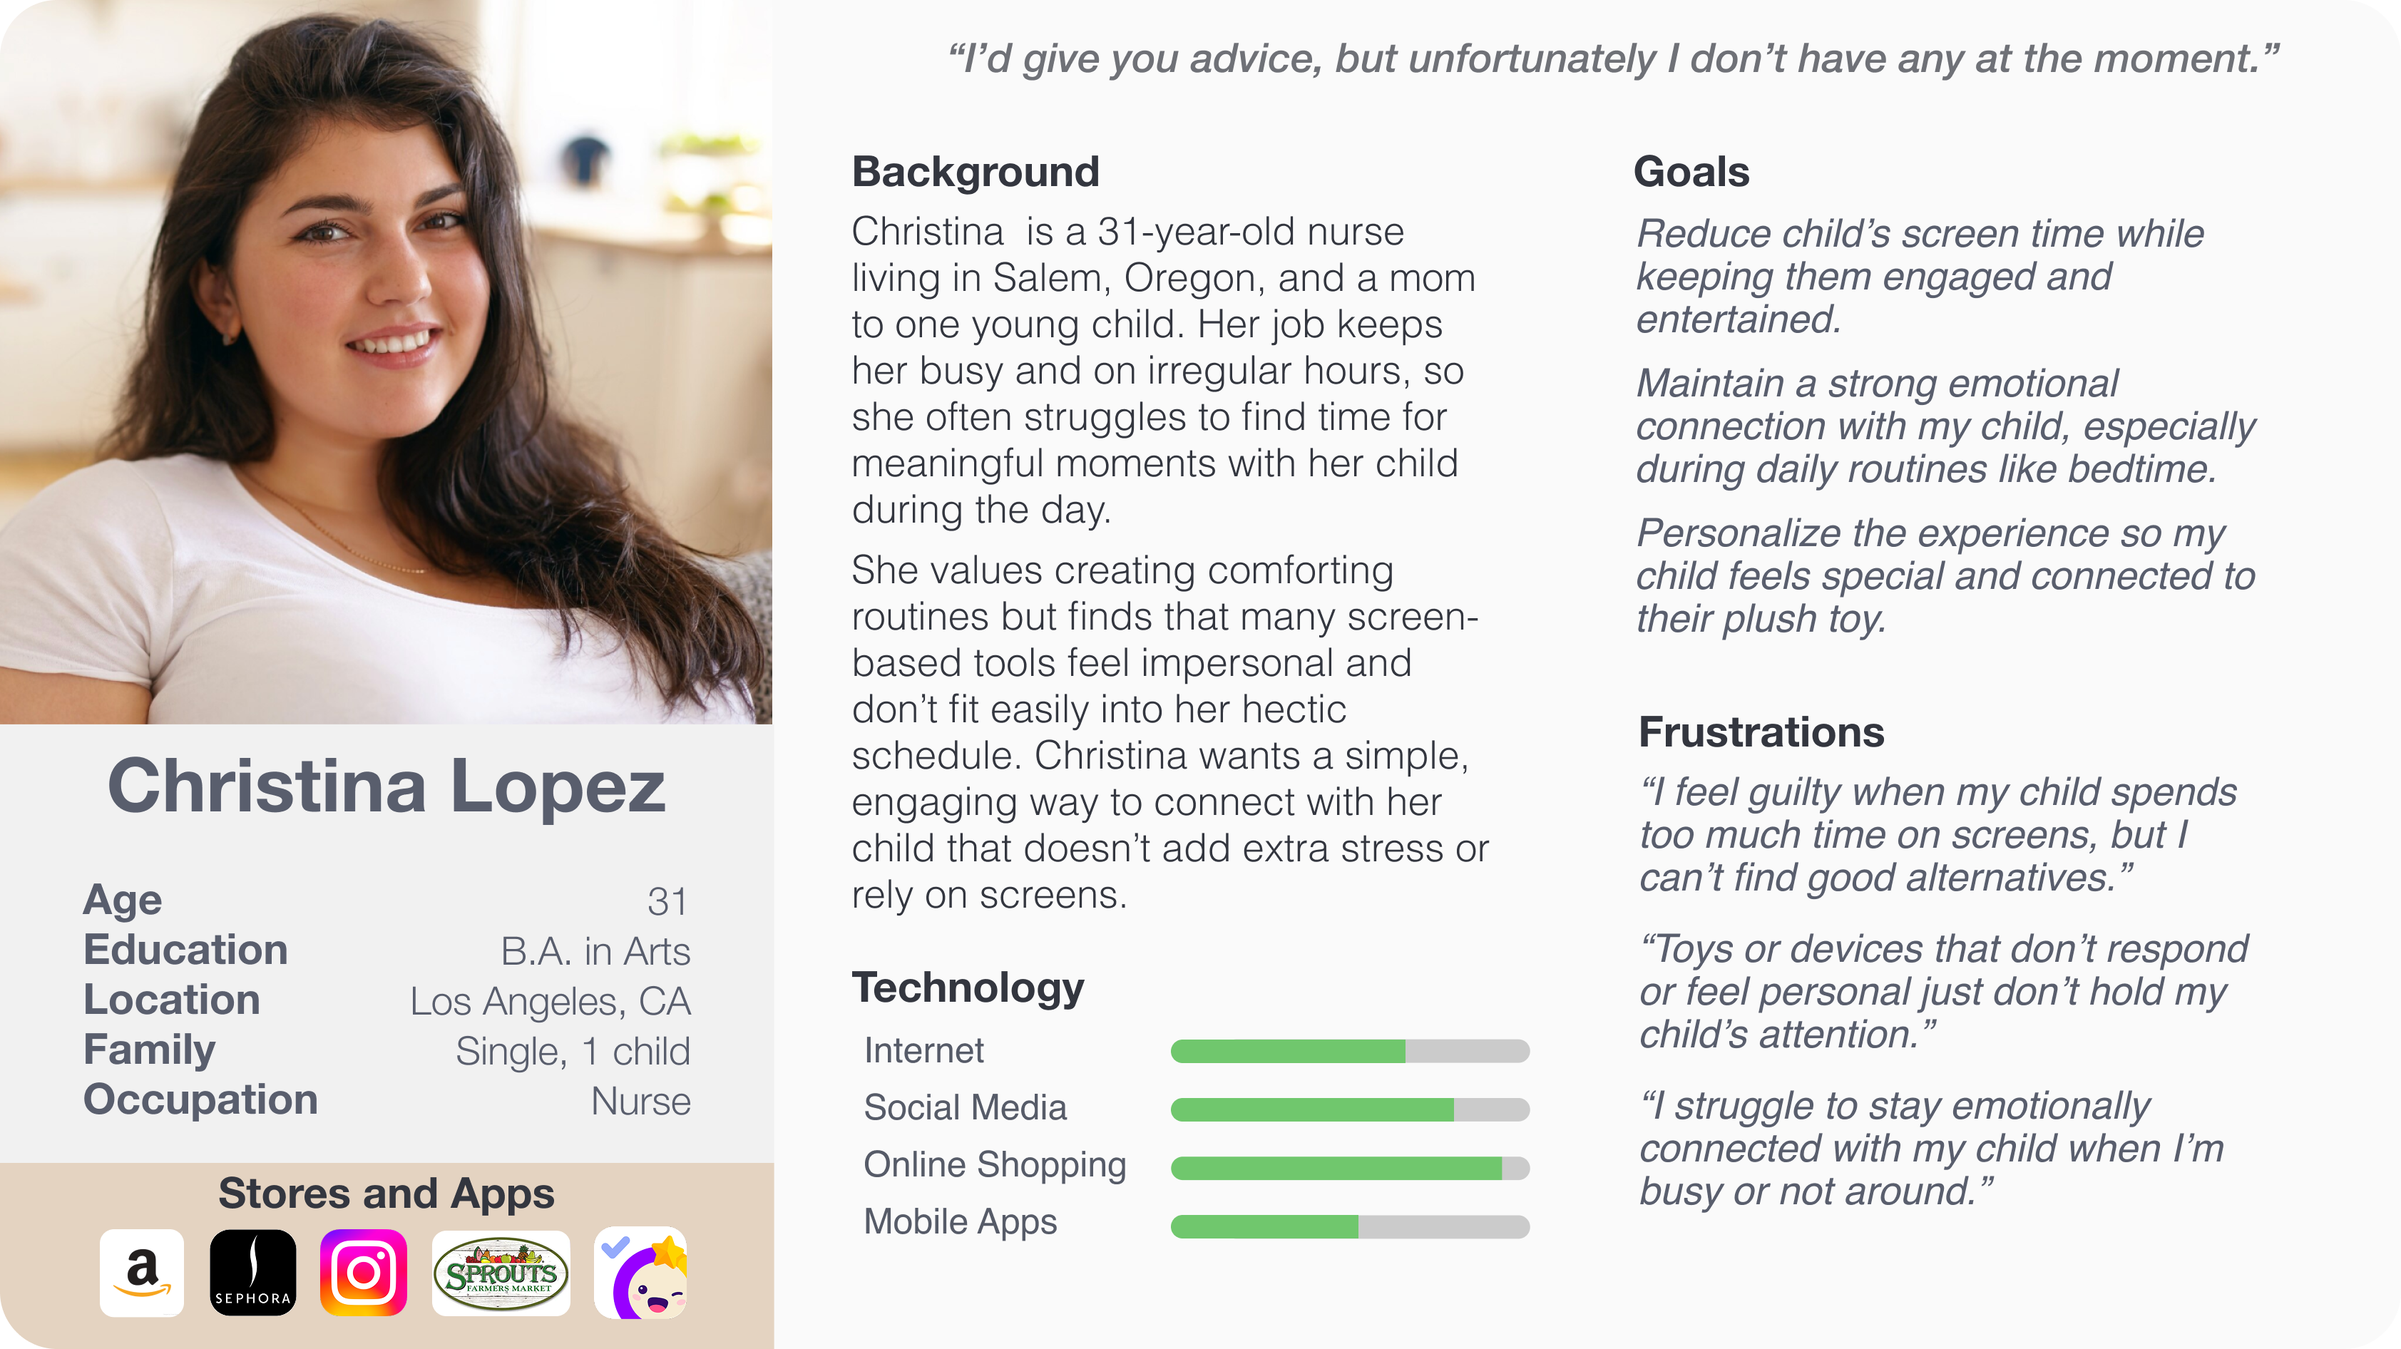
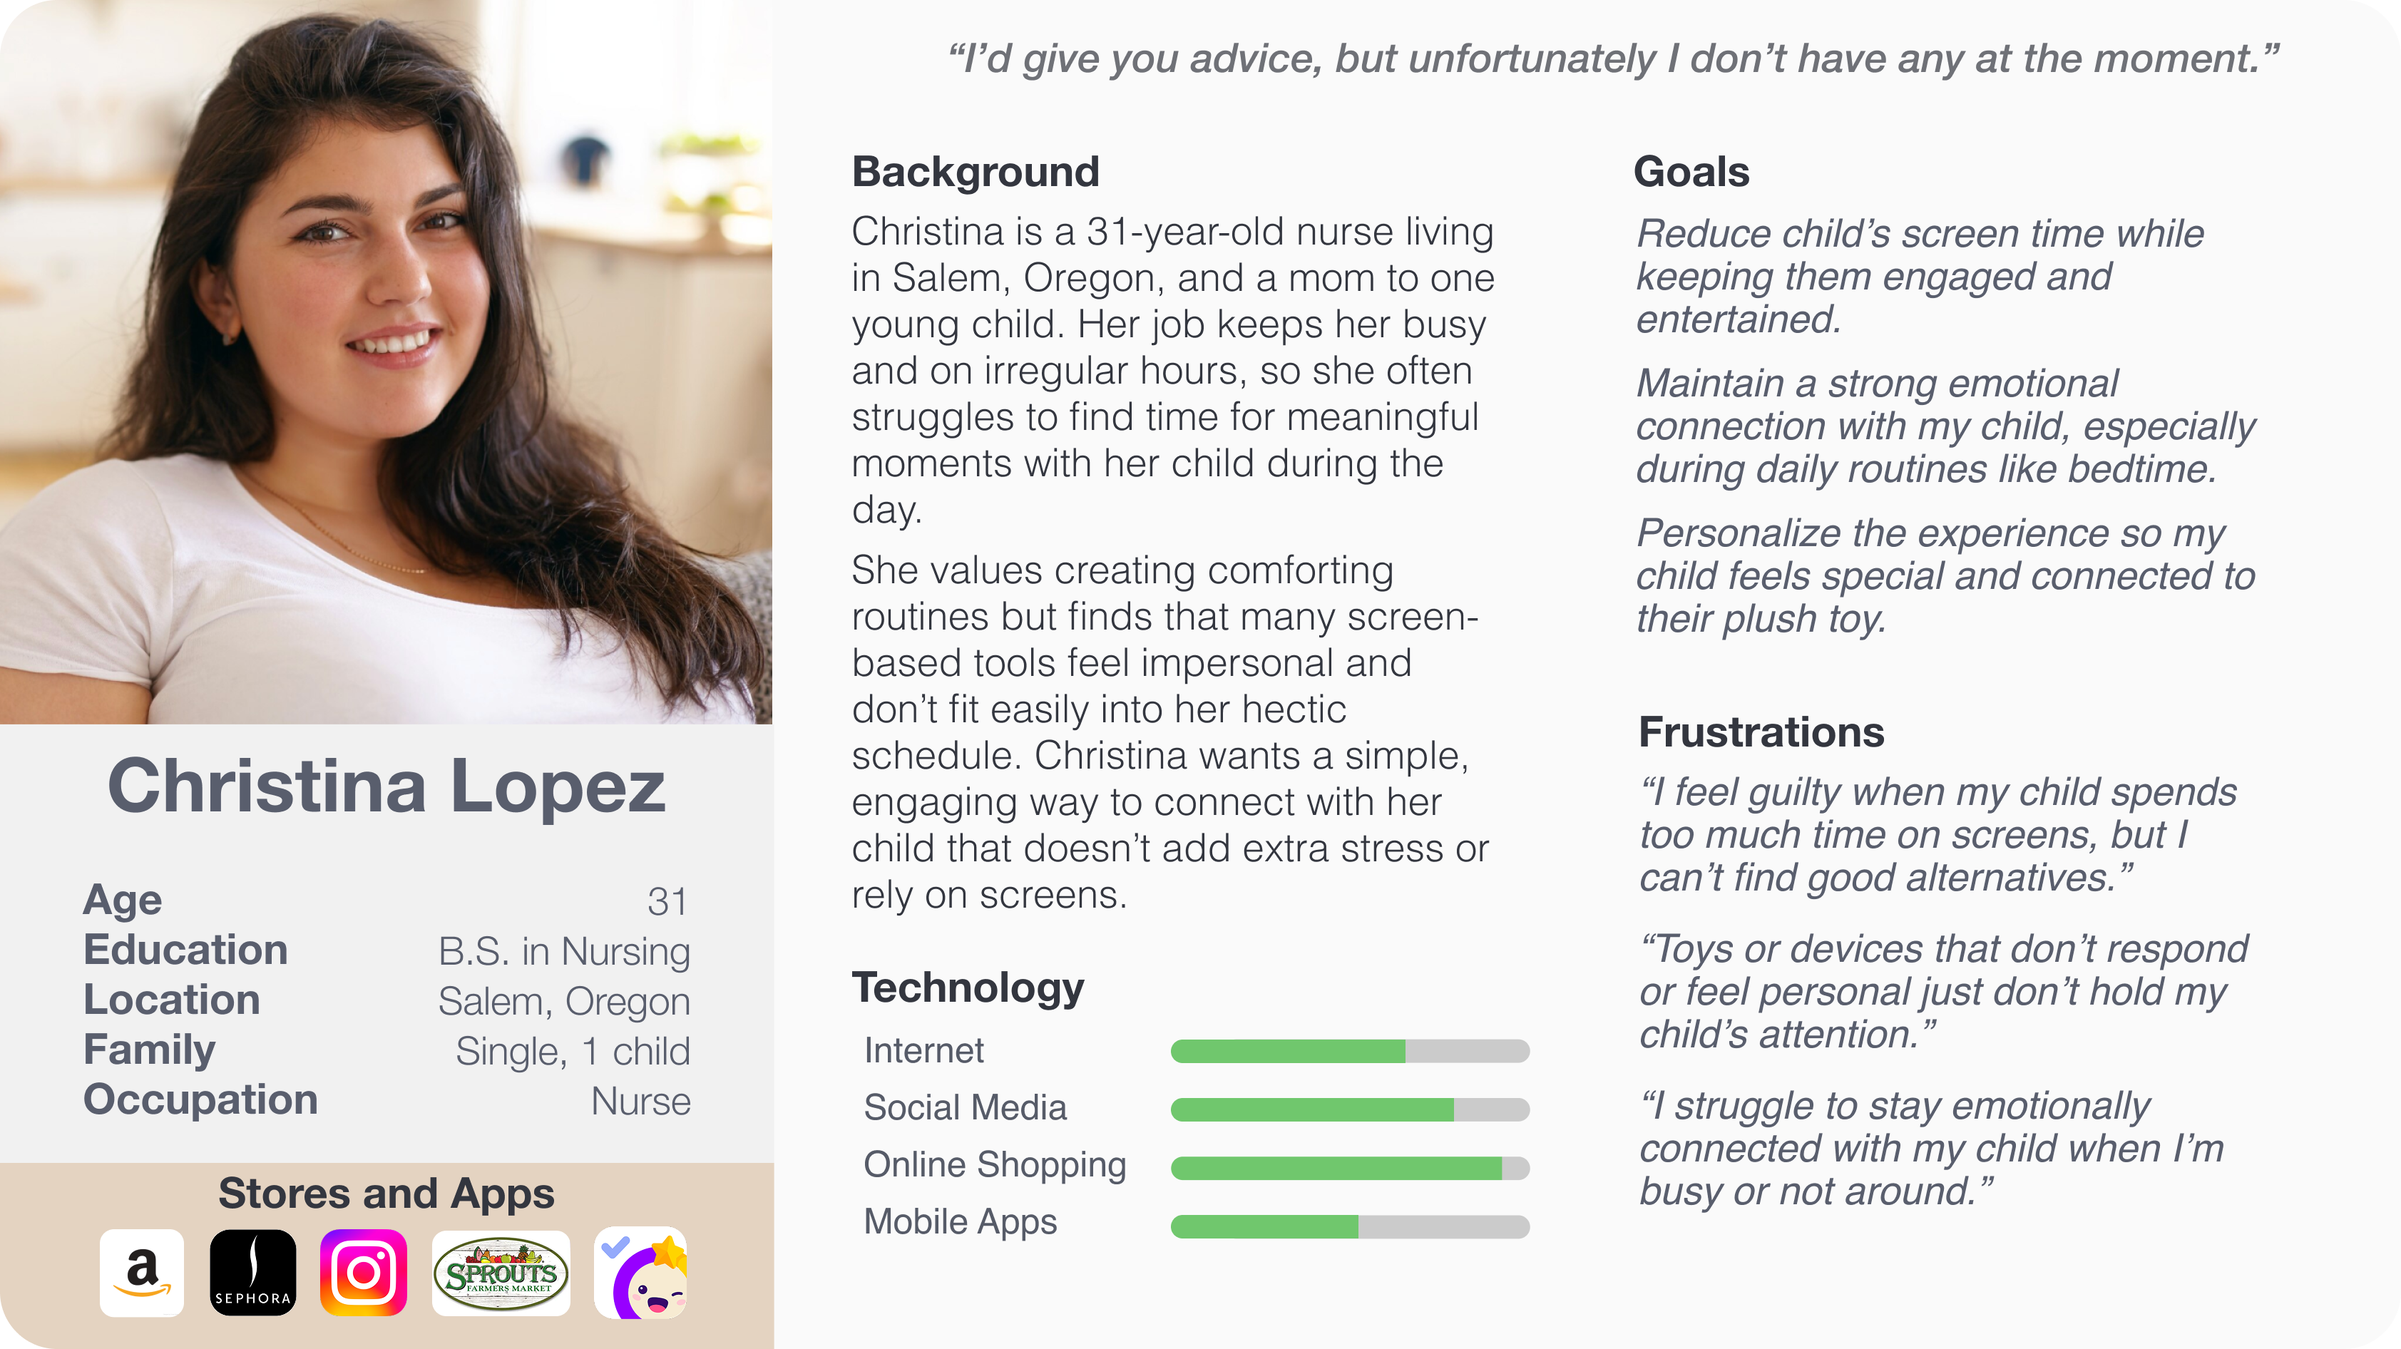
shorten some paragraphs

Changed region(s): [[0.343, 0.1559, 0.6237, 0.4054], [0.1871, 0.686, 0.2807, 0.7484]]

diff --git a/es/proyectos/mm.html b/es/proyectos/mm.html
@@ -86,7 +86,7 @@
                         <h5>Antes de realizar la investigación</h5>
                         <p>Supuse que los padres querían que sus hijos tuvieran una forma de mantenerse conectados con ellos sin necesidad de pantallas y que les ayudara a establecer rutinas con más facilidad.</p>
                         <h5>A través de entrevistas con usuarios y observación</h5>
-                        <p>Confirmé que muchas personas tenían dificultades para equilibrar sus agendas ocupadas con momentos de conexión de calidad. Una madre de un niño de cinco años compartió lo difícil que le resultaba mantener una rutina constante a la hora de dormir cuando tenía turnos de trabajo nocturnos. Ella deseaba una presencia reconfortante y familiar en la que su hijo pudiera confiar cuando ella no estuviera.</p>
+                        <p>Confirmé que muchas personas tenían dificultades para equilibrar sus agendas ocupadas con momentos de conexión de calidad. La madre de un niño de cinco años compartió lo difícil que le resultaba mantener una rutina constante a la hora de dormir cuando tenía turnos de trabajo nocturnos. Ella deseaba una presencia reconfortante y familiar en la que su hijo pudiera confiar cuando ella no estuviera.</p>
                         <h5>Al hablar con padres e hijos</h5>
                         <p>Descubrí que la conexión emocional era tan importante como la estructura. Los padres valoraban las herramientas que ayudaban con las rutinas, y los niños respondían mejor a interacciones que se sintieran personales y tuvieran un toque de magia.</p>
                     </div>
@@ -133,11 +133,11 @@
                     <div class="define-text">
                         <div class="define-middle-left">
                             <h4>Enmarcar el problema</h4>
-                            <p>A través de la investigación y entrevistas, surgió un desafío común: los padres ocupados tienen dificultades para mantener rutinas reconfortantes y una conexión significativa con sus hijos, mientras que los niños extrañan interacciones constantes y atractivas. Los padres desean reducir el tiempo frente a pantallas, pero carecen de herramientas que aporten calidez emocional y momentos lúdicos y personalizados en la vida diaria. El reto de diseño es crear una solución atractiva y fácil de usar que apoye rutinas nutritivas sin pantallas y ayude a los padres a mantenerse conectados con sus hijos, incluso cuando están separados.</p>
+                            <p>A través de investigaciones y entrevistas, descubrí que los padres ocupados a menudo tienen dificultades para mantener las rutinas de forma constante y una conexión emocional, mientras reducen el tiempo frente a las pantallas. Necesitan una forma cálida, lúdica y personalizada de mantener esos vínculos, incluso cuando no pueden estar físicamente presentes.</p>
                         </div>
                         <div class="define-middle-right">
                             <h4>Desarrollo de la persona</h4>
-                            <p>De las entrevistas con usuarios, quedó claro que los padres ocupados tienen dificultades para mantener rutinas reconfortantes mientras manejan agendas agitadas. Christina, una enfermera y madre de una niña de cinco años, inspiró la creación de la persona. Ella equilibra turnos nocturnos y tiempo en familia, y desea que su hija tenga una presencia familiar y reconfortante que apoye las rutinas diarias. Valora soluciones simples y sin pantallas que le ayuden a mantenerse conectada y faciliten las rutinas sin añadir complejidad.</p>
+                            <p>Christina, una enfermera y madre de un niño de cinco años, inspiró a la persona. Ella equilibra turnos nocturnos con el tiempo en familia y quiere que su hijo tenga una presencia familiar y reconfortante que apoye las rutinas diarias. Valora soluciones simples y libres de pantallas que le ayuden a mantenerse conectada y a facilitar las rutinas sin añadir complejidad.</p>
                         </div>
                     </div>
                     <div class="user-persona">
@@ -287,7 +287,7 @@
                         <div class="conclusion-top-section">
                             <div class="final-thoughts">
                                 <h4>Reflexiones finales</h4>
-                                <p>Al reflexionar sobre el proceso, aprendí mucho más sobre Figma de lo que esperaba, especialmente en el uso de overlays y la creación de interacciones más avanzadas en el prototipo. También mejoré mis habilidades en diseño de íconos, aprendiendo a crear íconos personalizados que encajaran con el tono de la app. Por último, adquirí un mejor sentido de cómo equilibrar la creatividad con la usabilidad, asegurándome de que cada elección de diseño tuviera un propósito claro. Estos pequeños detalles terminaron teniendo un gran impacto en la sensación de pulido e intuición del producto final.</p>
+                                <p>Al reflexionar sobre el proceso, aprendí mucho más sobre Figma de lo que esperaba, especialmente en el uso de overlays y la creación de interacciones más avanzadas en el prototipo. También mejoré mis habilidades en diseño de íconos, aprendiendo a crear íconos personalizados que encajaran con el tono de la app. Por último, adquirí un mejor entendimiento de cómo equilibrar la creatividad con la usabilidad, asegurándome de que cada elección de diseño tuviera un propósito claro. Estos pequeños detalles terminaron teniendo un gran impacto en la sensación de pulido e intuición del producto final.</p>
                             </div>
 
                             <div class="accessibility-section">

diff --git a/es/proyectos/bib.html b/es/proyectos/bib.html
@@ -116,11 +116,11 @@
                     <div class="define-text">
                         <div class="define-middle-left">
                             <h4>Enmarcar el problema</h4>
-                            <p>A través de la investigación y entrevistas, quedó claro que tanto los clientes como el personal están frustrados con el proceso de pedir en persona durante las horas punta. Los clientes no tienen tiempo para personalizar sus pedidos en el momento, y el personal se siente abrumado por las constantes aclaraciones. Esto genera largas filas, servicio lento y estrés. Los clientes ocupados de Brooklyn y el personal de la panadería necesitan una forma más rápida y sencilla de hacer y gestionar pedidos personalizados en los momentos de mayor afluencia.</p>
+                            <p>A través de investigaciones y entrevistas, descubrí que las visitas a la panadería en horas pico abruman tanto a clientes como a empleados, especialmente cuando los pedidos requieren personalización. Necesitan una forma más rápida y conveniente de hacer pedidos habituales sin el estrés de las largas filas o las explicaciones repetidas.</p>
                         </div>
                         <div class="define-middle-right">
                             <h4>Desarrollo de la persona</h4>
-                            <p>De las entrevistas con usuarios, descubrí que muchos clientes, especialmente padres, enfrentan presión de tiempo y tienen que lidiar con comensales exigentes, lo que hace que pedir comida sea estresante por las mañanas. Una usuaria inspiró la creación de la persona “Samantha”, una mamá ocupada con dos hijos que combina dejar a los niños en la escuela y su trabajo antes de las 9 a.m. Valora la rapidez, la flexibilidad y la posibilidad de personalizar sus pedidos con anticipación sin tener que esperar en la fila o explicar todo en persona. Aunque no es muy “tecnológica”, está abierta a cualquier solución que facilite las mañanas agitadas.</p>
+                            <p>Samantha, una ocupada madre de dos hijos en Brooklyn, inspiró a la persona. Combina las entregas escolares con el trabajo cada mañana y valora la rapidez, la flexibilidad y la posibilidad de ordenar con anticipación sin complicaciones adicionales.</p>
                         </div>
                     </div>
                     <div class="user-persona">

diff --git a/es/sobre.html b/es/sobre.html
@@ -46,8 +46,8 @@
                     </div>
                     <div class="self-description">
                         <h3>Un poco sobre mí</h3>
-                        <p id="paragraph-one">Me metí en UX porque me fascina entender cómo piensa la gente, qué necesita y por qué las cosas funcionan (o no). Con formación en biología e informática, he estudiado sistemas complejos: humanos, digitales, e intermedios. Soy analítico y me encanta ser creativo, por eso el diseño UX tiene sentido para mí. Disfruto hacer que los sistemas funcionen mejor, y no me asusta probar, romper y reconstruir hasta que lo logre.</p>
-                        <p>Fuera del diseño, me encanta probar cosas nuevas: comida, deportes, incluso tejer (siempre tengo uno o dos... o tres proyectos en marcha). He vivido en Seattle, Nueva York y Miami, donde me siento como en casa de diferentes maneras. También me encantan los idiomas y hablo tres y medio (¡ya casi llego al cuarto!). Al fin y al cabo, soy una persona curiosa, motivada y siempre en busca de cómo mejorar las experiencias de los usuarios, los equipos y del mundo que me rodea.</p>
+                        <p id="paragraph-one">Empecé en UX porque me fascina entender cómo piensa la gente, qué necesita y por qué las cosas funcionan (o no). Con formación en biología e informática, he estudiado sistemas complejos: humanos, digitales, e intermedios. Soy analítico y me encanta ser creativo, por eso el diseño UX tiene sentido para mí. Disfruto hacer que los sistemas funcionen mejor, y no me asusta probar, romper y reconstruir hasta que lo logre.</p>
+                        <p>Fuera del diseño, me encanta probar cosas nuevas: comida, deportes, incluso tejer (siempre tengo uno o dos... o tres proyectos en marcha). He vivido en Seattle, Nueva York y Miami, donde me siento como en casa de diferentes maneras. También me encantan los idiomas y hablo tres y medio (¡ya casi llego al cuarto!). Soy una persona curiosa, motivada y siempre en busca de cómo mejorar las experiencias de los usuarios, los equipos y del mundo que me rodea.</p>
                     </div>
                     <div id="my-projects">
                         <h3>Proyectos personales</h3>

diff --git a/projects/mm.html b/projects/mm.html
@@ -133,11 +133,11 @@
                     <div class="define-text">
                         <div class="define-middle-left">
                             <h4>Framing the problem</h4>
-                            <p>Through research and interviews, a common challenge emerged: busy parents struggle to maintain comforting routines and meaningful connection with their children, while kids miss consistent, engaging interactions. Parents want to reduce screen time but lack tools that bring emotional warmth and playful, personalized moments into daily life. The design challenge is to create an inviting, easy-to-use solution that supports nurturing, screen-free routines and helps parents stay connected with their child, even when apart.</p>
+                            <p>Through research and interviews, I found that busy parents often struggle to keep routines consistent and emotionally connected while reducing screen time. They need a warm, playful, and personalized way to maintain those bonds, even when they can’t be physically present.</p>
                         </div>
                         <div class="define-middle-right">
                             <h4>Developing The Persona</h4>
-                            <p>From user interviews, it became clear that busy parents struggle to maintain comforting routines while managing hectic schedules. Christina, a nurse and mom of a five-year-old, inspired the persona. She juggles late shifts and family time and wants her child to have a familiar, comforting presence that supports daily routines. She values simple, screen-free solutions that help her stay connected and ease routines without adding complexity.</p>
+                            <p>Christina, a nurse and mom of a five-year-old, inspired the persona. She juggles late shifts and family time and wants her child to have a familiar, comforting presence that supports daily routines. She values simple, screen-free solutions that help her stay connected and ease routines without adding complexity.</p>
                         </div>
                     </div>
                     <div class="user-persona">

diff --git a/projects/bib.html b/projects/bib.html
@@ -116,11 +116,11 @@
                     <div class="define-text">
                         <div class="define-middle-left">
                             <h4>Framing the problem</h4>
-                            <p>Through research and interviews, it became clear that both customers and staff are frustrated by in-person ordering during rush hours. Customers don't have time to customize on the spot, and staff are overwhelmed by constant clarifications. This leads to long lines, slow service, and stress. Busy Brooklyn customers and bakery staff need a faster, simpler way to place and manage custom orders during peak times.</p>
+                            <p>Through research and interviews, I found that peak-hour bakery visits overwhelm both customers and staff, especially when orders require customization. They need a faster, more convenient way to place regular orders without the stress of long lines or repeated explanations.</p>
                         </div>
                         <div class="define-middle-right">
                             <h4>Developing The Persona</h4>
-                            <p>From my user interviews, I found that many customers, especially parents, struggle with time pressure and picky eaters, making food ordering stressful in the mornings. One user inspired the persona of Samantha, a busy mom of two who juggles school drop-offs and work before 9 a.m. She values speed, flexibility, and the ability to customize ahead of time without waiting in line or explaining everything in person. While not "techy," she's open to anything that makes hectic mornings easier.</p>
+                            <p>Samantha, a busy Brooklyn mom of two, inspired the persona. She juggles school drop-offs and work each morning and values speed, flexibility, and the ability to order ahead without added hassle.</p>
                         </div>
                     </div>
                     <div class="user-persona">
